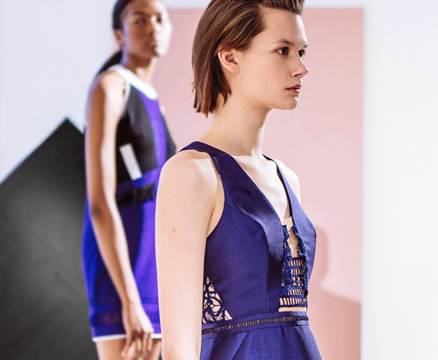
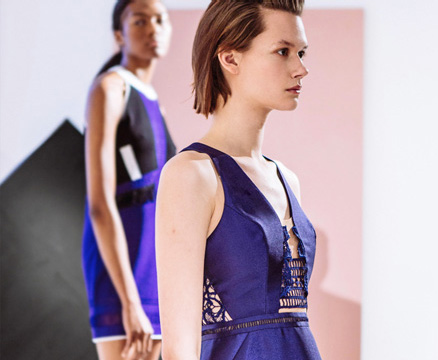
image change

diff --git a/www/application/views/home.php b/www/application/views/home.php
@@ -212,21 +212,21 @@
 			<div class="row"> 
 				<div class="col-xs-3 showcase-item">
 					<a class="showcase-image image-link" href="<?=URL::site('about#play-lounge')?>" data-has-button="false" data-content="<?=mb_substr(__('about__testimonials__comment_1'), 0, 70, 'utf-8').'. . .' ?>">
-						<img src="/static/app/images/home-testomonial-1.png"/>
+						<img src="/static/app/images/home-testomonial-1.jpg"/>
 					</a>
 					<div class="showcase-name">PLAY LOUNGE</div>
 					<div class="showcase-collection">Iris Hu: <?=__('home__people_BUYER');?></div>
 				</div>
 				<div class="col-xs-3 showcase-item">
 					<a class="showcase-image image-link" href="<?=URL::site('about#wendyz')?>" data-has-button="false" data-content="<?=mb_substr(__('about__testimonials__comment_2'), 0, 70, 'utf-8').'. . .' ?>">
-						<img src="/static/app/images/home-testomonial-2.png"/>
+						<img src="/static/app/images/home-testomonial-2.jpg"/>
 					</a>
 					<div class="showcase-name">WENDYZ</div>
 					<div class="showcase-collection">Wendy Weng: <?=__('home__people_DIRECTOR');?></div>
 				</div>
 				<div class="col-xs-3 showcase-item">
 					<a class="showcase-image image-link" href="<?=URL::site('about#ppq')?>" data-has-button="false" data-content="<?=mb_substr(__('about__testimonials__comment_3'), 0, 70, 'utf-8').'. . .' ?>">
-						<img src="/static/app/images/home-testomonial-3.png"/>
+						<img src="/static/app/images/home-testomonial-3.jpg"/>
 					</a>
 					<div class="showcase-name">PPQ</div>
 					<div class="showcase-collection">Percy Parker: <?=__('home__people_BRAND_DIRECTOR');?></div>
